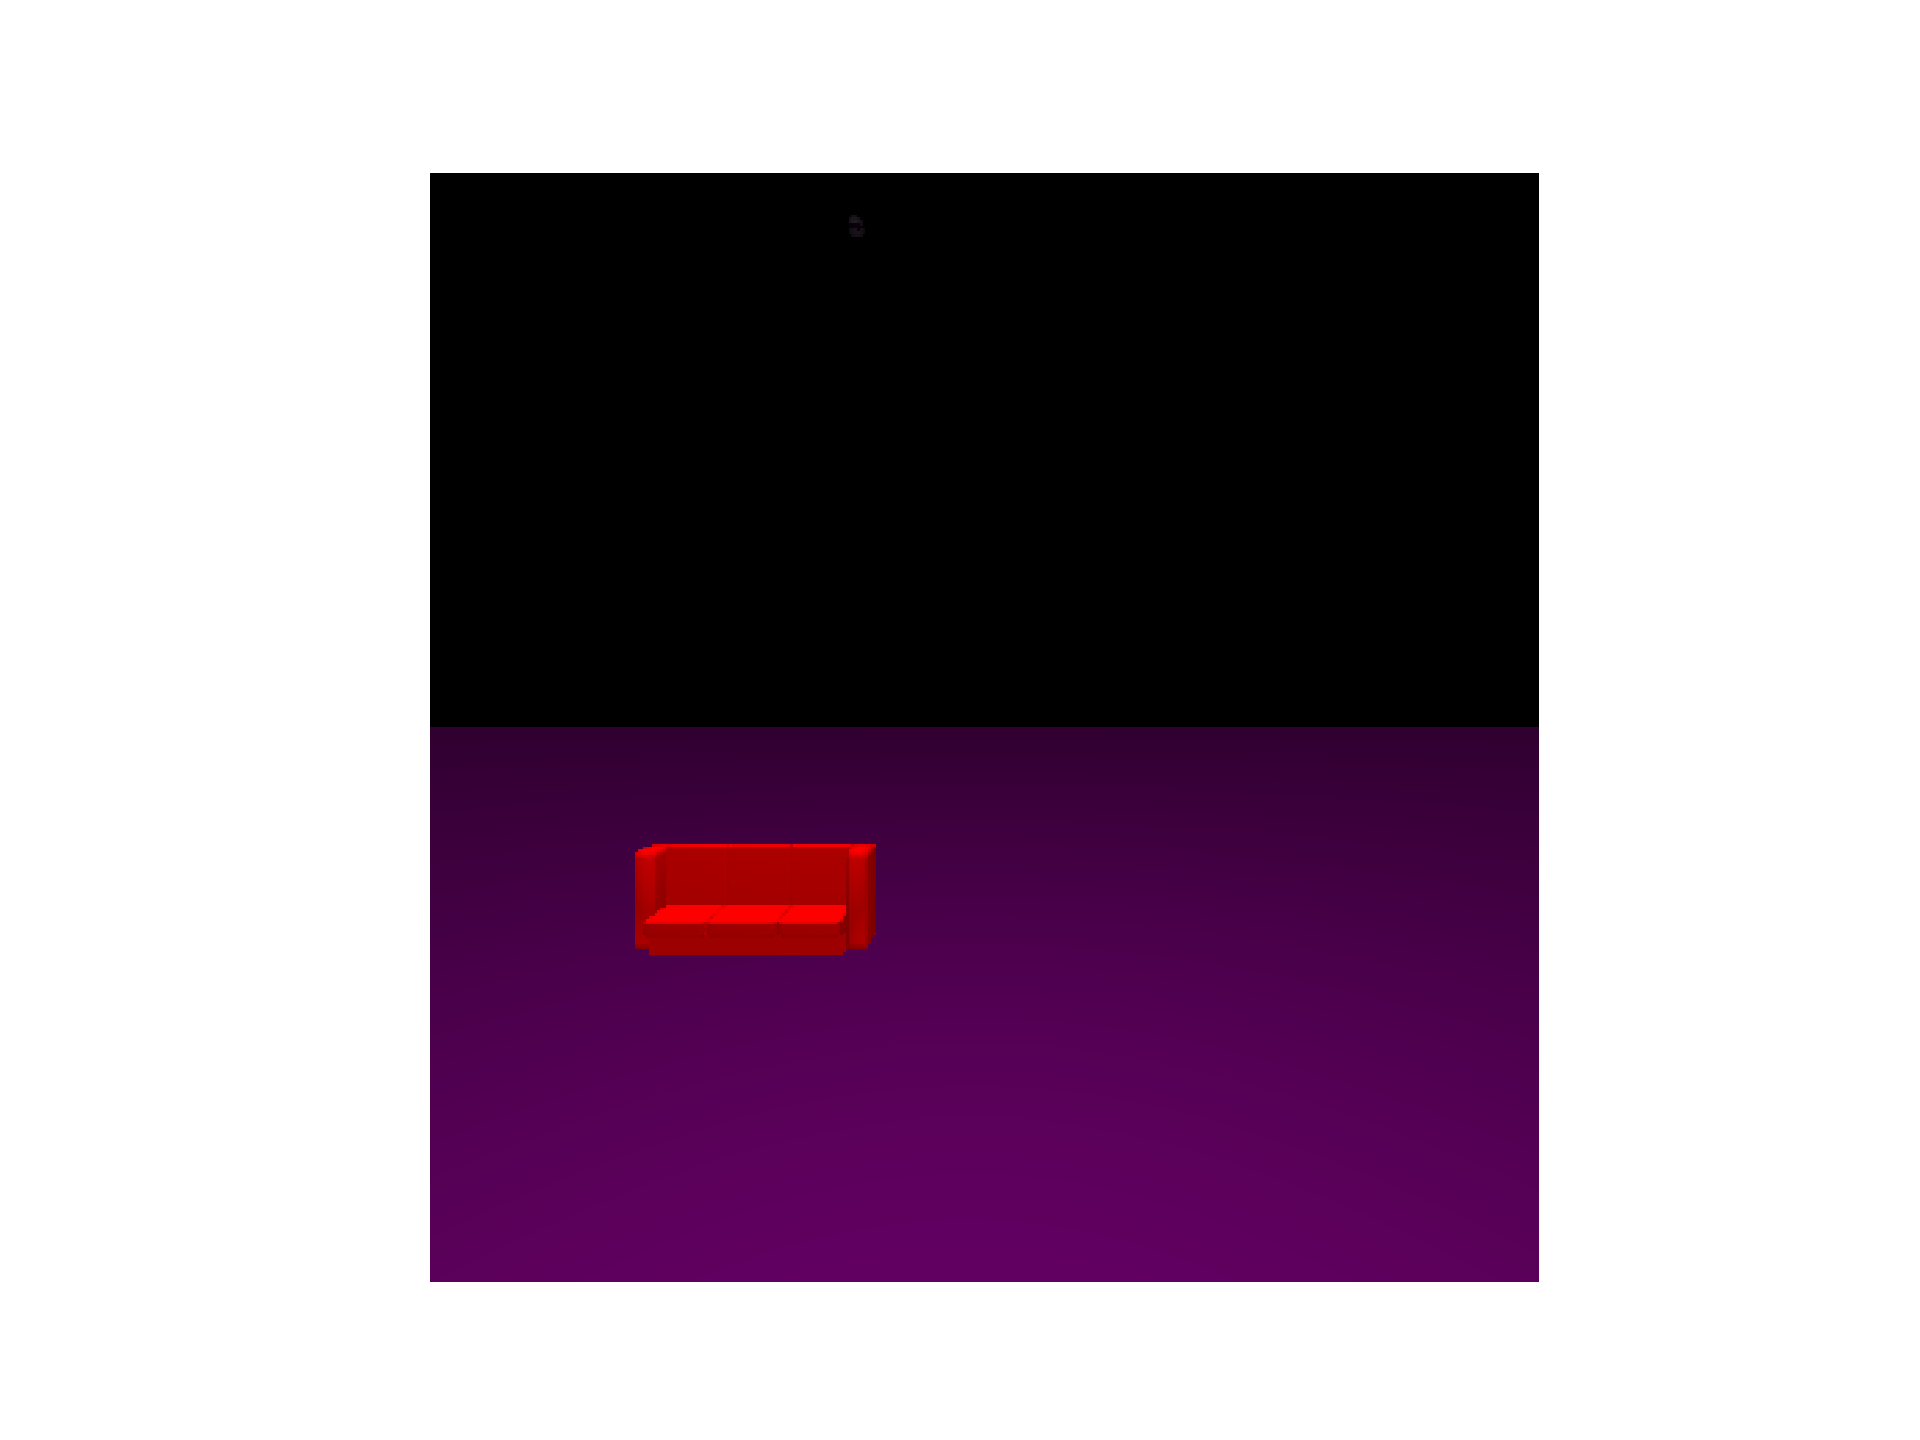
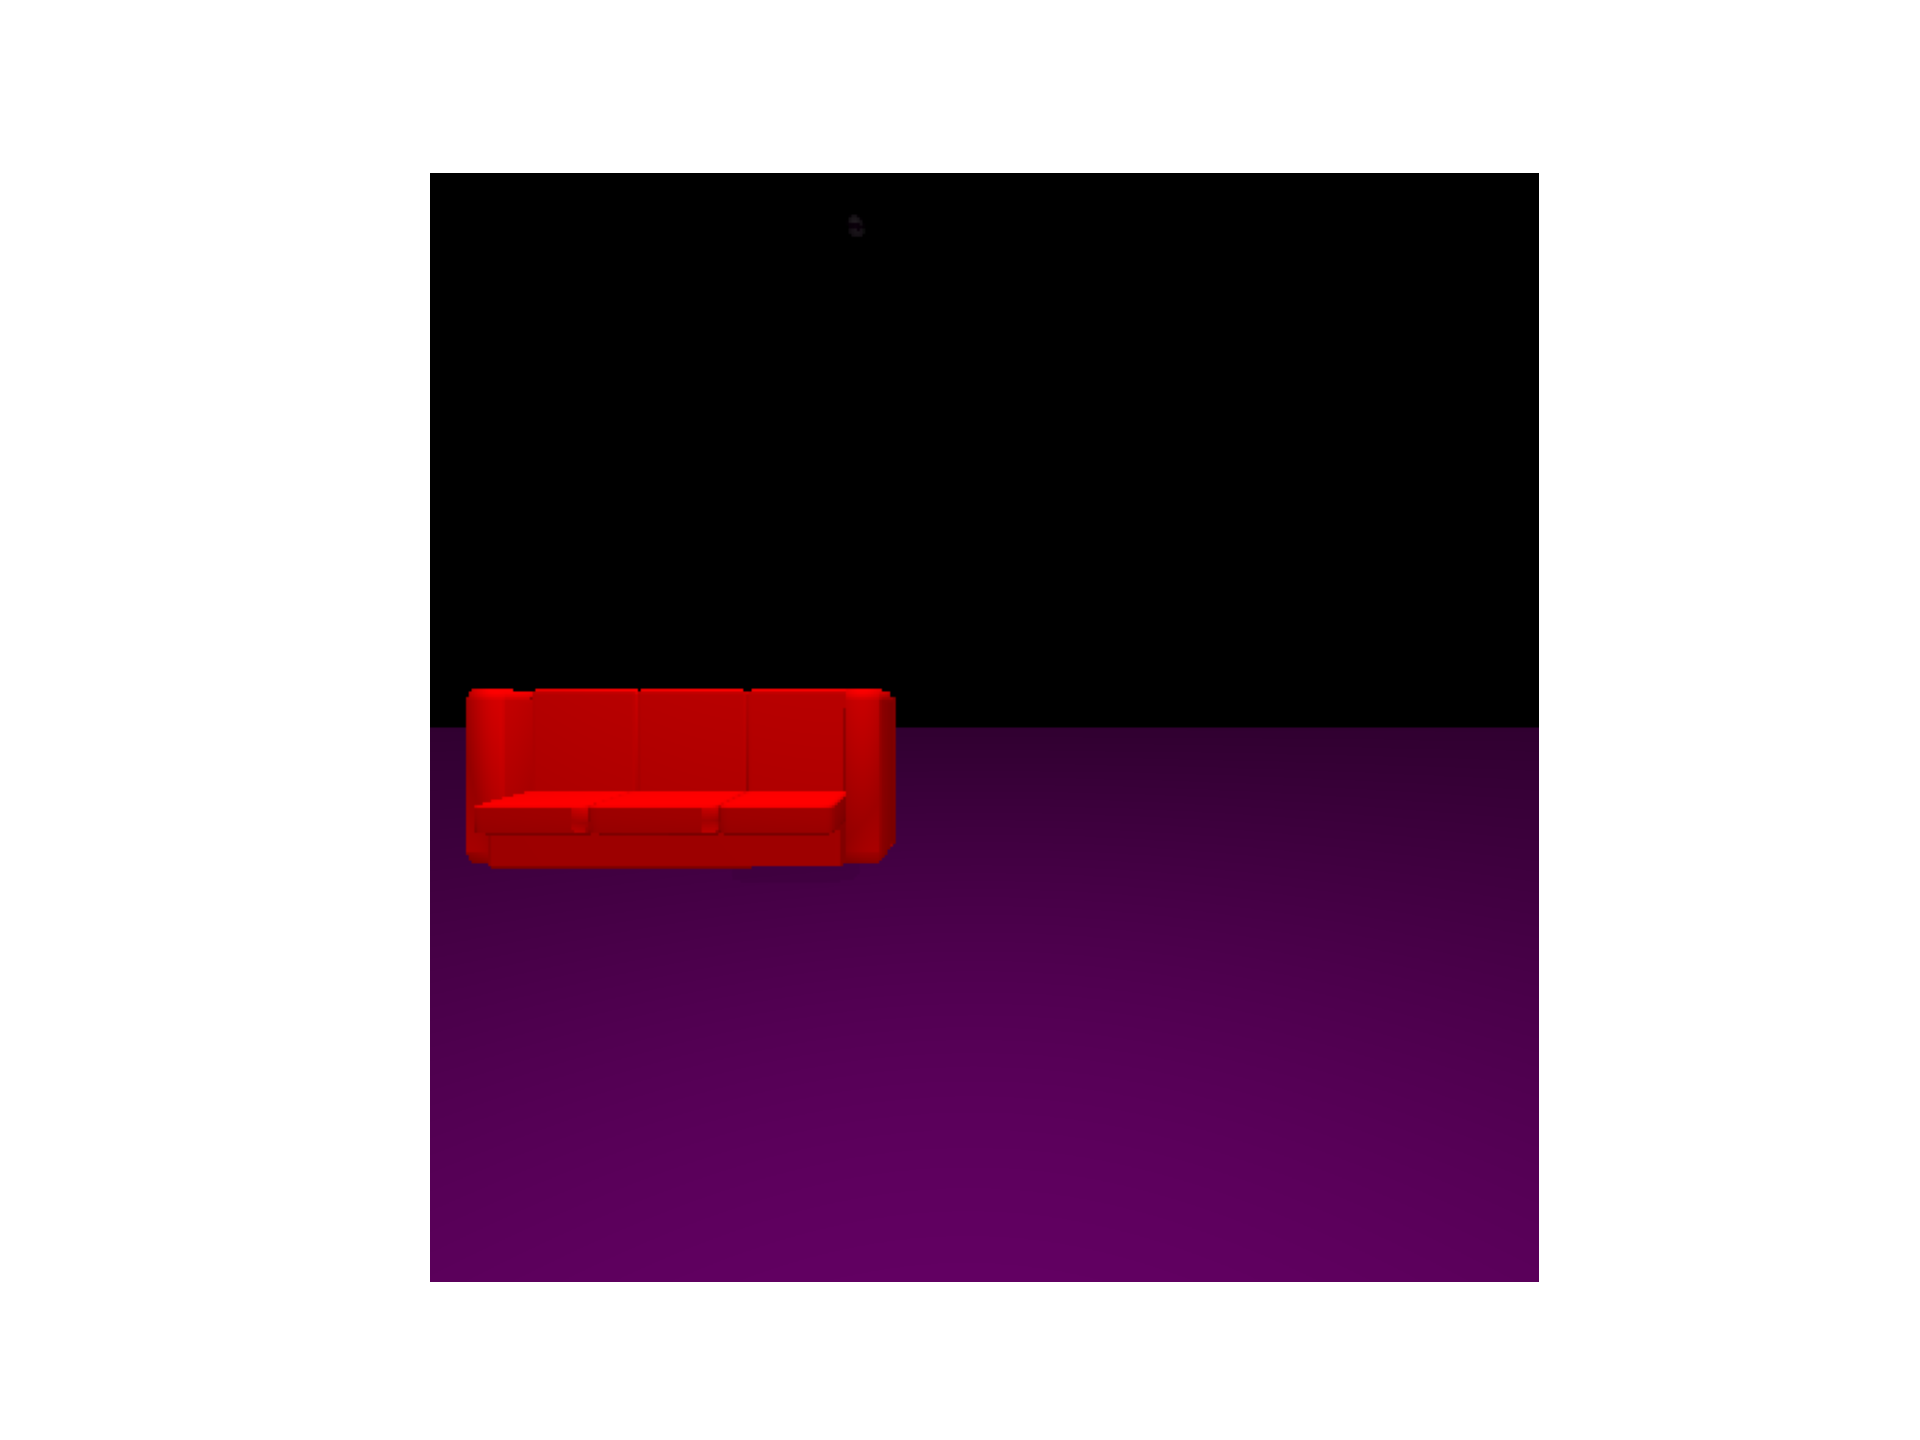
отлов ошибок + смещение объектов

Changed region(s): [[0.2188, 0.4688, 0.4688, 0.6875]]

diff --git a/render/figures.cpp b/render/figures.cpp
@@ -9,6 +9,8 @@
 #include "scene.h"
 #include "math.h"
 #include <vector>
+#include <errno.h>
+#include <string.h>
 
 template<typename T>
 T min(T a, T b){
@@ -140,13 +142,24 @@ std::vector<std::string> split(std::string const &s, std::string delimeter = " "
 Object* PolyFigure::clone(std::vector<std::string> const &arg) {
 
     Vec3 left({INFTY,INFTY,INFTY}), right({-INFTY, -INFTY, -INFTY});
-
-    assert(arg.size() >= 1);
+    Vec3 offset = {0, 0, 0};
+    double size = 1;
     PolyFigure* rez = new PolyFigure();
-
-    if (arg.size() >= 2) {
+    if(arg.size() < 1){
+        delete rez;
+        throw("недостаточно аргументов");
+    } else if (arg.size() == 2) {
         rez->color = Color(arg[1]);
+    } else if (arg.size() == 6) {
+        offset = {atof(arg[1].c_str()), atof(arg[2].c_str()), atof(arg[3].c_str())};
+        size = atof(arg[4].c_str());
+        rez->color = Color(arg[5]);
+    } else{
+        delete rez;
+        throw("такое количество аргументов не предусмотрено");
     }
+
+
 
     rez->body = new std::vector<std::vector<Triangle>>;
     rez->body->push_back(std::vector<Triangle>());
@@ -191,25 +204,32 @@ Object* PolyFigure::clone(std::vector<std::string> const &arg) {
 
     std::ifstream inn(arg[0].c_str());
     if(!inn){
-        perror("no input file:");
+        delete rez;
+        throw("no input file");
     }
     
     std::string s;
-    while(getline(inn, s)) {
-        std::vector<std::string> args = split(s);
-        if(args.empty())
-            continue;
-        std::string name = args[0];
-        if(name == "v"){
-            Vec3 tmp = to_vec(args);
-            left = {min(left[0], tmp[0]) ,min(left[1], tmp[1]) ,min(left[2], tmp[2]) };
-            right = {max(right[0], tmp[0]) ,max(right[1], tmp[1]) ,max(right[2], tmp[2]) };
-            vertices.push_back(tmp);
+
+    try{
+        while(getline(inn, s)) {
+            std::vector<std::string> args = split(s);
+            if(args.empty())
+                continue;
+            std::string name = args[0];
+            if(name == "v"){
+                Vec3 tmp = offset + size * to_vec(args);
+                left = {min(left[0], tmp[0]) ,min(left[1], tmp[1]) ,min(left[2], tmp[2]) };
+                right = {max(right[0], tmp[0]) ,max(right[1], tmp[1]) ,max(right[2], tmp[2]) };
+                vertices.push_back(tmp);
+            }
+            else if(name == "vn") normals.push_back(to_vec(args));
+            else if(name == "vt") textures.push_back(to_vec(args));
+            else if(name == "g") ++number, rez->body->push_back(std::vector<Triangle>());
+            else if(name == "f")  add_tr(args);
         }
-        else if(name == "vn") normals.push_back(to_vec(args));
-        else if(name == "vt") textures.push_back(to_vec(args));
-        else if(name == "g") ++number, rez->body->push_back(std::vector<Triangle>());
-        else if(name == "f")  add_tr(args);
+    } catch(...){
+        delete rez;
+        throw(strerror(errno));
     }
    
     rez->box = Bounded_box(left, right);
@@ -274,8 +294,11 @@ SmartPoint Sphere::get_intersection_SmartPoint(Ray r) {
 }
 
 Object* Sphere::clone(std::vector<std::string> const & arg) {
-    assert(arg.size() >= 4);
+    if(arg.size() < 4){
+        throw("недостаточно аргументов");
+    }
     Sphere* rez = new Sphere();
+
     Vec3 center =  Vec3(atof(arg[0].c_str()),atof(arg[1].c_str()),atof(arg[2].c_str()));
     double radius = atof(arg[3].c_str());
     rez->radius = radius;
@@ -341,7 +364,9 @@ SmartPoint Tetraedr::get_intersection_SmartPoint(Ray r) {
 
 // v1.x v1.y v1.z [ v2.x v2.y v2.z v3.x v3.y v3.z v4.x v4.y v4.z ]
 Object* Tetraedr::clone(std::vector<std::string> const & arg) {
-    assert(arg.size() >= 3);
+    if(arg.size() < 3){
+        throw("недостаточно аргументов");
+    }
     Tetraedr* rez = new Tetraedr();
     Vec3 pos =  Vec3(atof(arg[0].c_str()),atof(arg[1].c_str()),atof(arg[2].c_str()));
     Vec3 a(-2, 1, -2);
@@ -381,7 +406,9 @@ Object* Tetraedr::clone(std::vector<std::string> const & arg) {
 // ------------------------------- BeautifulSphere -------------------------------
 
 Object* BeautifulSphere::clone(std::vector<std::string> const &arg) {
-    assert(arg.size() >= 4);
+    if(arg.size() < 4){
+        throw("недостаточно аргументов");
+    }
     BeautifulSphere* rez = new BeautifulSphere();
     rez->position =  Vec3(atof(arg[0].c_str()),atof(arg[1].c_str()),atof(arg[2].c_str()));
     rez->radius = atof(arg[3].c_str());
@@ -425,7 +452,9 @@ std::pair<int,std::string> BeautifulPlane::name() const {
 }
 
 Object* BeautifulPlane::clone(std::vector<std::string> const &arg) {
-    assert(arg.size() >= 4);
+    if(arg.size() < 4){
+        throw("недостаточно аргументов");
+    }
     BeautifulPlane* rez = new BeautifulPlane();
     rez->normal =  Vec3(atof(arg[0].c_str()),atof(arg[1].c_str()),atof(arg[2].c_str())).normalized();
     rez->d = atof(arg[3].c_str());

diff --git a/render/scene.cpp b/render/scene.cpp
@@ -7,6 +7,9 @@
 */
 #include <thread>
 #include <vector>
+#include <stdexcept>
+#include <errno.h>
+#include <string.h>
 #include "math.h"
 #include "scene.h"
 
@@ -128,7 +131,9 @@ std::vector<Ray> Camera::create_rays() {
 
 Object* Camera::clone(std::vector<std::string> const & arg){
    // Vec3 position, Vec3 angles, double distance, double width, double height
-    assert(arg.size() >= 10);
+   if(arg.size() < 10){
+       throw("недостаточно аргументов");
+   }
     Camera* rez = new Camera(
         Vec3(atof(arg[0].c_str()), atof(arg[1].c_str()), atof(arg[2].c_str())),
         Vec3(atof(arg[3].c_str()), atof(arg[4].c_str()), atof(arg[5].c_str())),
@@ -187,6 +192,7 @@ void Scene::initialization(const char * input) {
         new Sphere(), new Tetraedr(), new PolyFigure()
     };
 
+
     for (auto obj : zigotes) {
         std::pair<int,std::string> tmp = obj->name();
         factory[tmp.second] = std::pair<int,Object*>(tmp.first, obj);
@@ -194,9 +200,11 @@ void Scene::initialization(const char * input) {
 
     std::ifstream inn(input);
     if (!inn) {
-        perror("no input file:");
+        throw("входной файл не открылся");
     }
+
     std::string s;
+    Object * ptr;
     while (getline(inn, s)) {
         auto args = split(s);
         if(args.empty()) continue;
@@ -204,7 +212,16 @@ void Scene::initialization(const char * input) {
         args.erase(args.begin());
         auto it = factory.find(name);
         if (it == factory.end()) continue;
-        Object * ptr = (it->second).second->clone(args);
+        try{
+            ptr = (it->second).second->clone(args);
+        } catch(std::string err_st){
+            fprintf(stderr, "ошибка при создании объекта с параметрами \"%s\": \n   %s\n", s.c_str(), err_st.c_str());
+            continue;
+        }catch(...){
+            fprintf(stderr, "ошибка при создании объекта с параметрами \"%s\": \n %s\n", s.c_str(), strerror(errno));
+            continue;
+        }
+        
         switch ((it->second).first) {
             case CAMERA:
             if(camera) delete camera;
@@ -295,7 +312,14 @@ void Scene::trace_ray(Ray ray) {
 
 void Scene::parallel_trace_ray(Ray * it, int times){
     for( ;times > 0; ++it, --times){
+        try{
         trace_ray(*it);
+        } catch(std::string err_str){
+            fprintf(stderr, "проблемы с обработкой пикселя %d %d:\n     %s\n", it->x, it->y, err_str.c_str());
+        } catch(...){
+            fprintf(stderr, "проблемы с обработкой пикселя:\n     %s\n", strerror(errno));
+        }
+
     }
 }
 
@@ -314,14 +338,24 @@ void Scene::render(int thread_count) {
     int end = for_thread;
 
     std::thread ** threads = new std::thread*[thread_count];
+
+    
     for(int i = 0; i < thread_count; ++i){
+        try{
         threads[i] = new std::thread(&Scene::parallel_trace_ray, this, &rays[begin], end - begin);
+        } catch(...){
+            fprintf(stderr, "%d поток не создался. Номер ошибки %s\n", i, strerror(errno));
+        }
         begin = end;
         end = for_thread + end > rays_count ? rays_count : for_thread + end;
     }
     
     for(int i = 0; i < thread_count; ++i){
+        try{
         threads[i]->join();
+        } catch(...){
+            fprintf(stderr, "%d проблема с потоком. Номер ошибки %s\n", i, strerror(errno));
+        }
     }
 
     for(int i = 0; i < thread_count; ++i){
@@ -329,5 +363,5 @@ void Scene::render(int thread_count) {
     }
 
     delete[] threads;
-
+    return;
 }

diff --git a/main.cpp b/main.cpp
@@ -8,13 +8,32 @@
 
 #include "render/scene.h"
 #include "stdio.h"
+#include <errno.h>
+#include <string.h>
 #include <vector>
+#include <stdexcept>
 
 int main() {
     Scene r;
-    r.initialization("tmp_info.ass");
-    r.render();
-
+    try{
+        r.initialization("tmp_info.ass");
+    } catch(std::string err_st){
+        fprintf(stderr, "ошибка при чтении сцены:\n     %s\n", err_st.c_str());
+        return 0;
+    } catch(...){
+        fprintf(stderr, "ошибка при чтении сцены:\n     %s\n", strerror(errno));
+        return 0;
+    }
+    try{
+        r.render();
+    } catch(std::string err_st){
+        fprintf(stderr, "ошибка при отрисовке сцены: %s\n", err_st.c_str());
+        return 0;
+    } catch(...){
+        fprintf(stderr, "ошибка при отрисовке сцены:\n    %s\n", strerror(errno));
+        return 0;
+    }
+    
     Color** res = r.get_res();
     int height =  r.get_camera()->height();
     int width = r.get_camera()->width();
